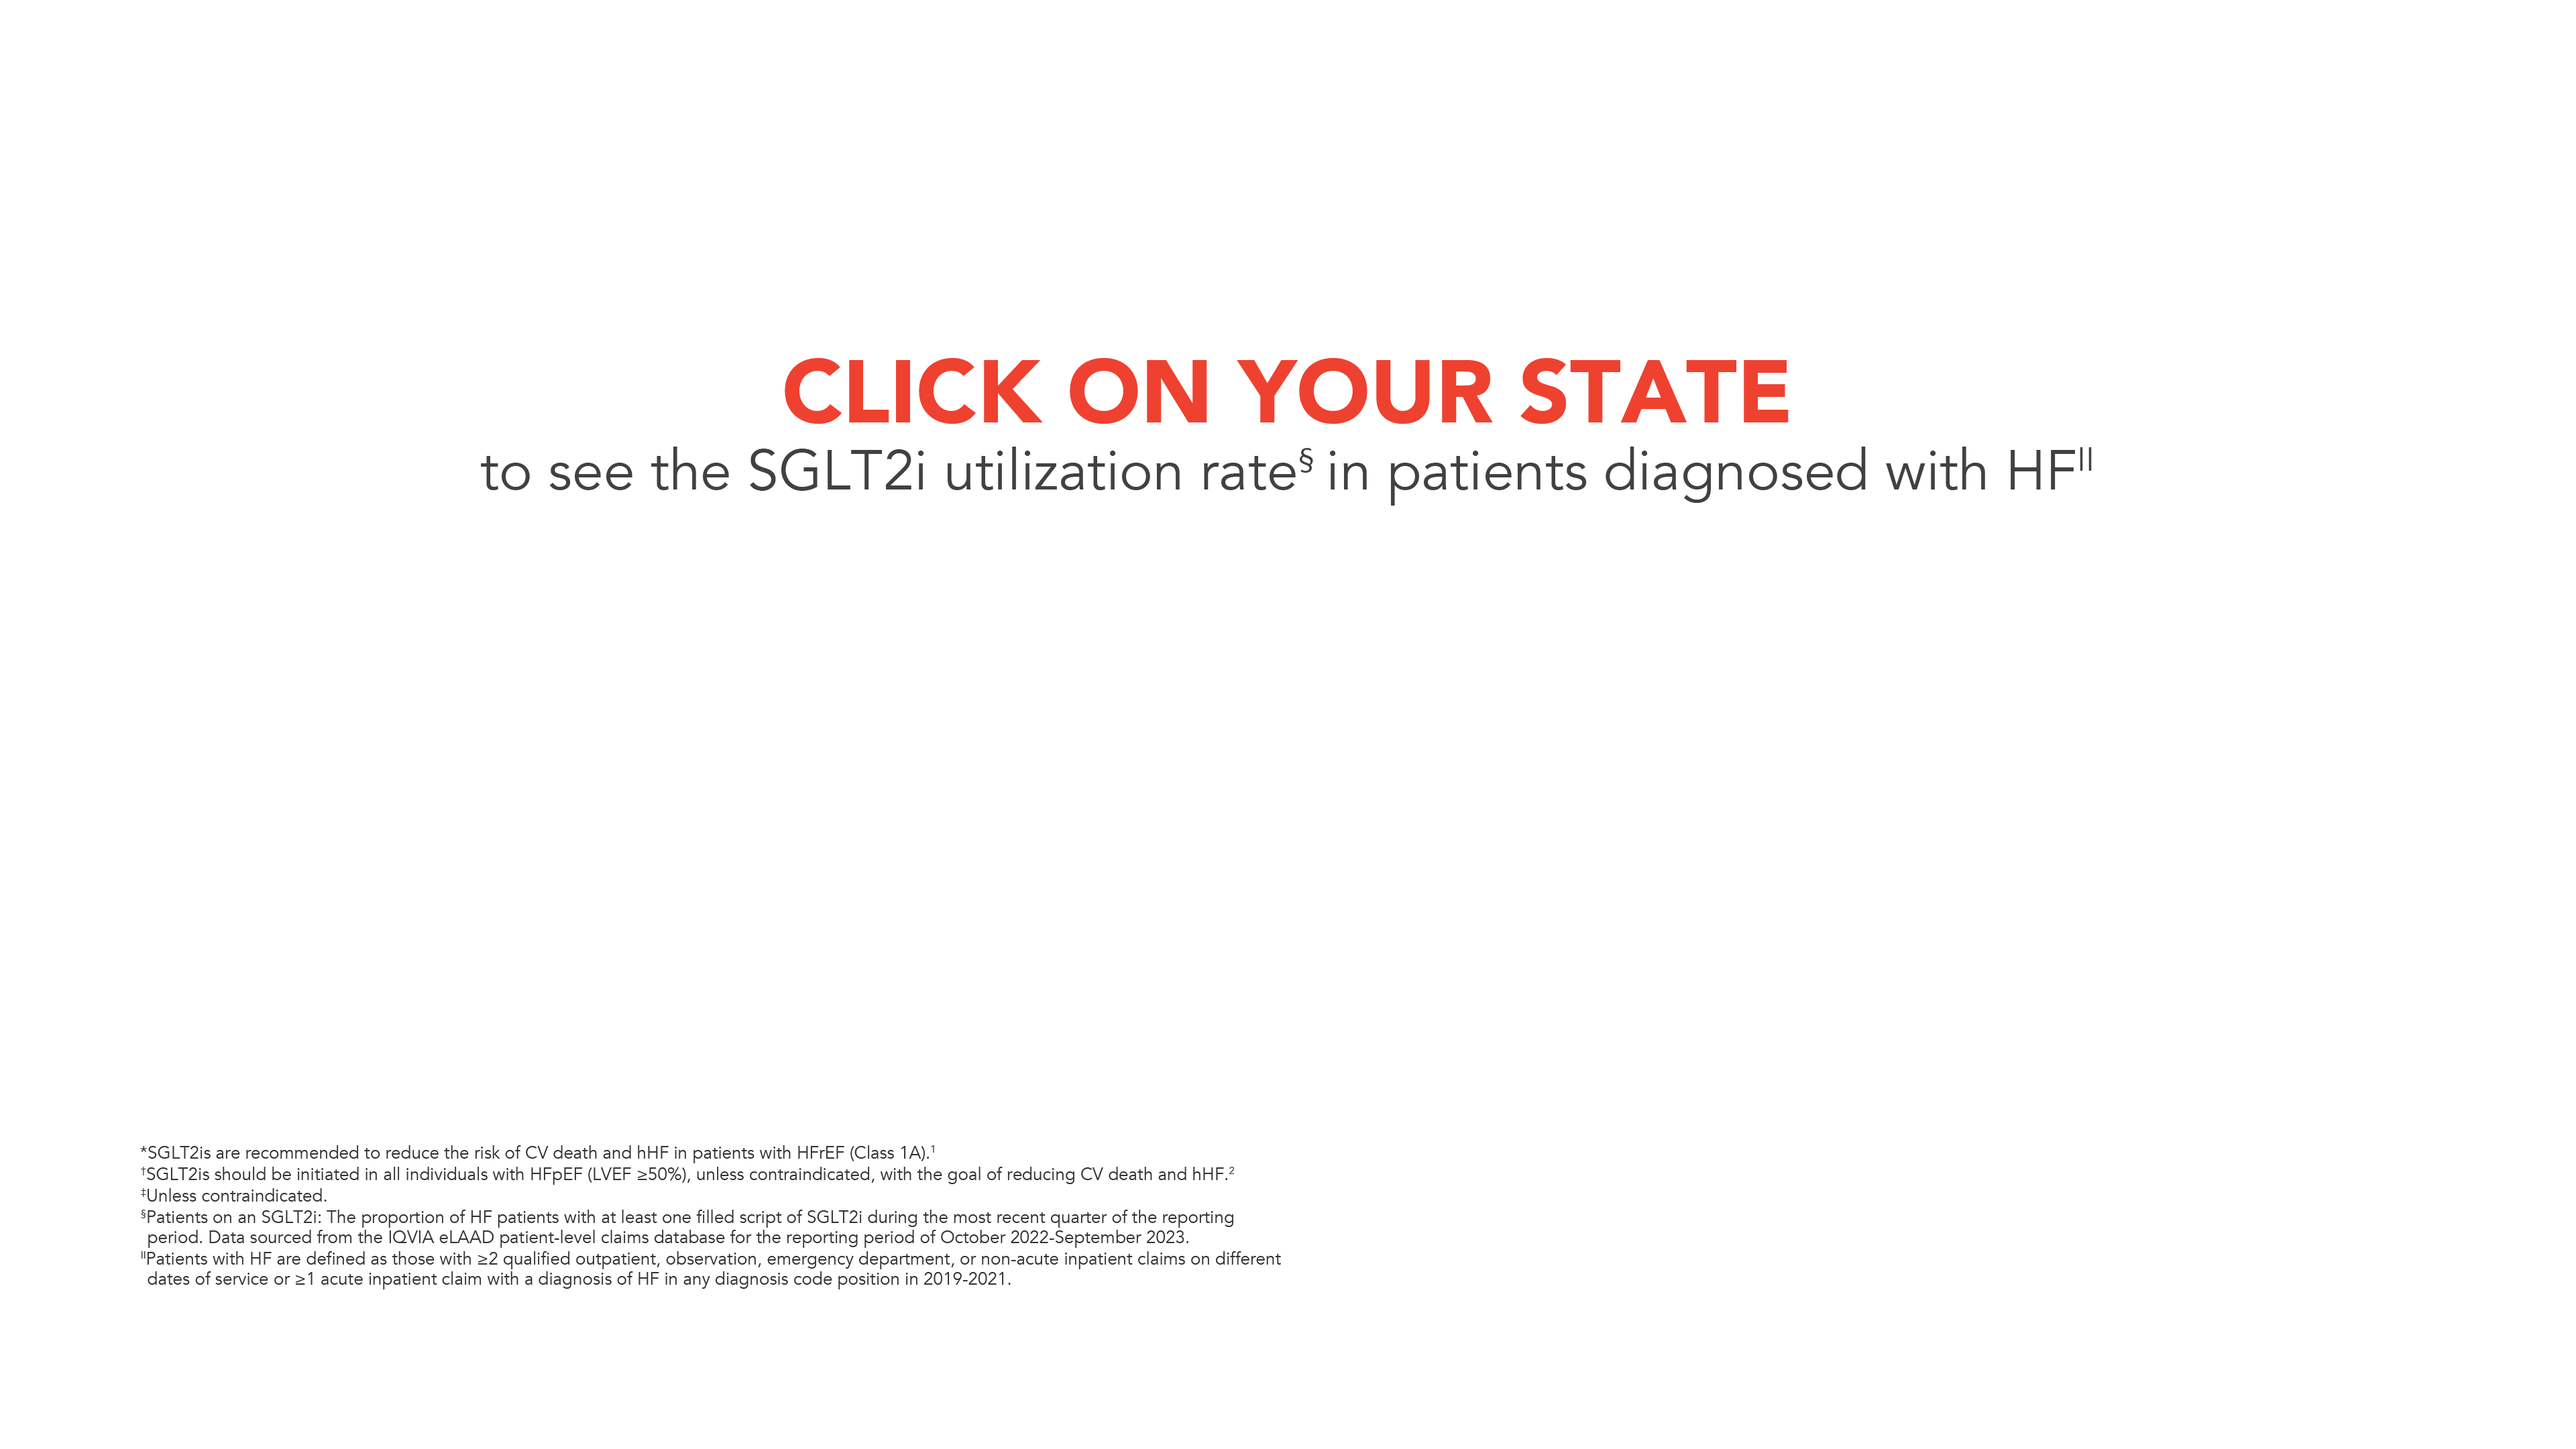
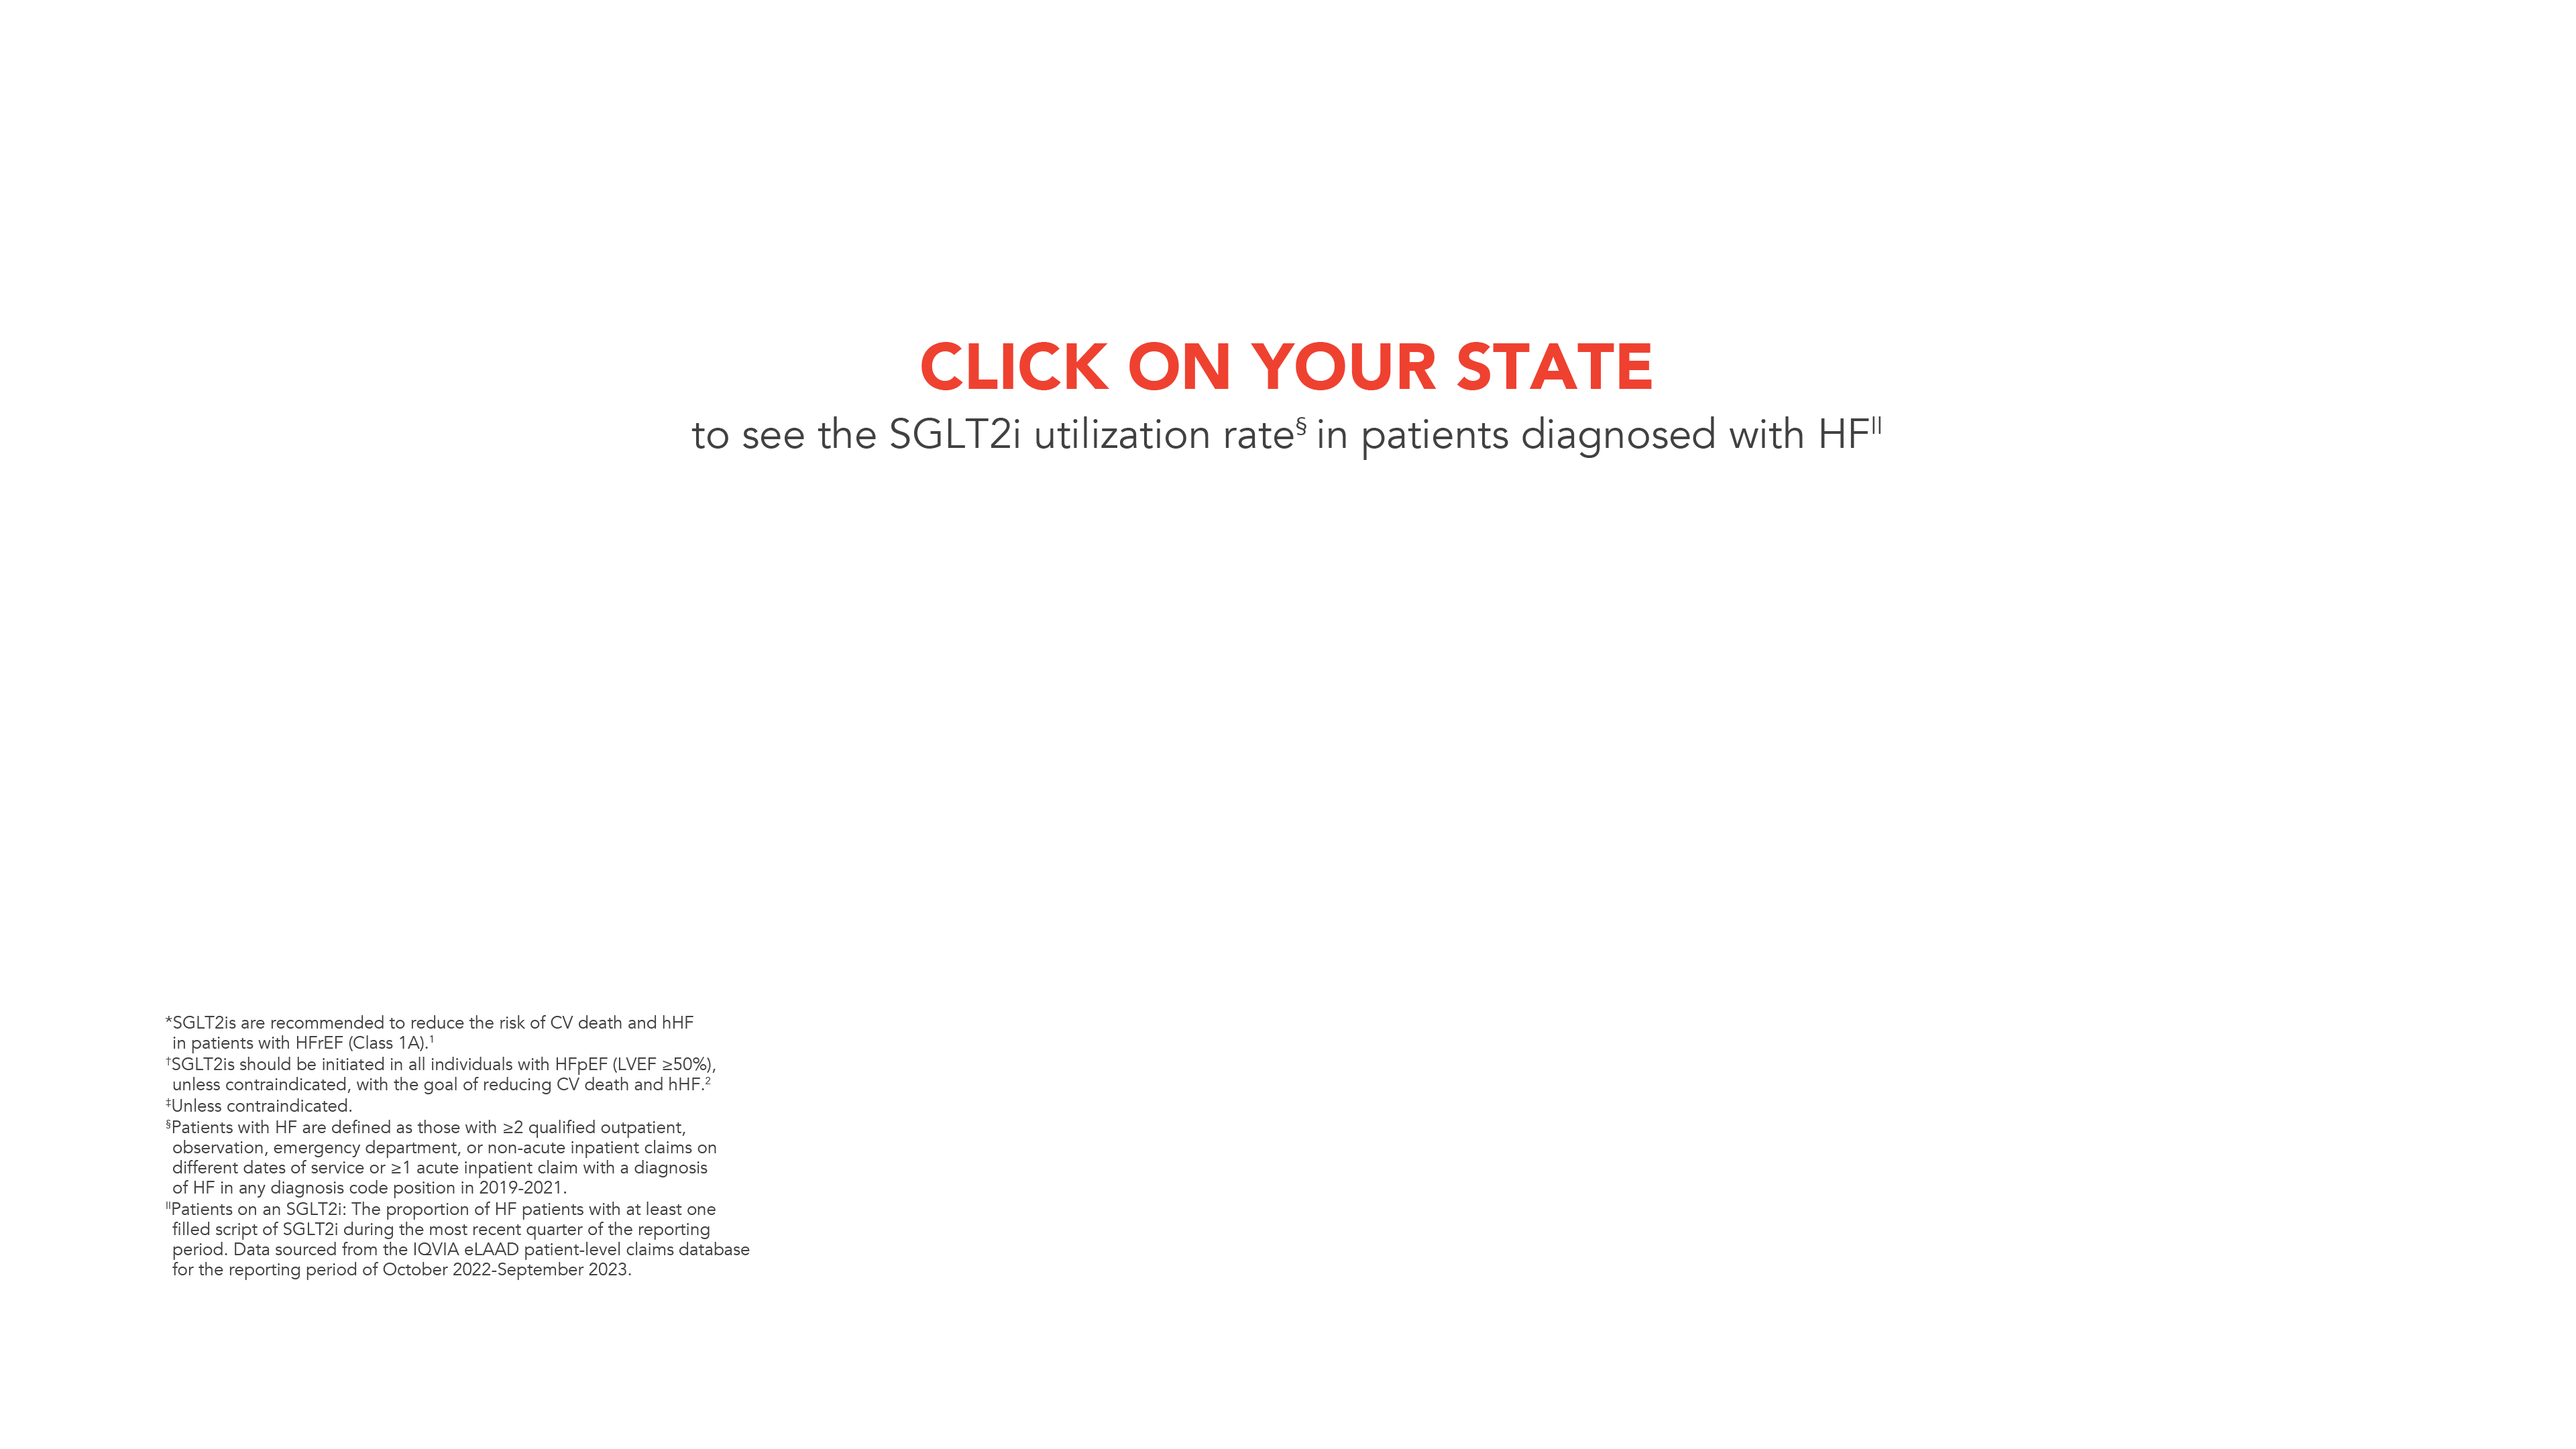
updates missing 1

Changed region(s): [[0.1875, 0.217, 0.8123, 0.341], [0.0625, 0.7131, 0.4686, 0.8991], [0.2187, 0.7131, 0.2499, 0.7441]]

diff --git a/public/index.html b/public/index.html
@@ -2310,6 +2310,68 @@
         z-index: unset;
         transition: visibility 0ms 3500ms, opacity 3500ms linear;
       }
+      img.select-state.left.visible {
+        visibility: visible!important;
+        opacity: 1!important;
+        z-index: unset;
+        transition: visibility 0ms 3500ms, opacity 3500ms linear;
+      }
+      img.select-state.right.visible {
+        visibility: visible!important;
+        opacity: 1!important;
+        z-index: unset;
+        transition-delay: 1s; /* 2 */
+        transition: delay 1s visibility 0ms 3500ms, opacity 3500ms linear!important;
+      }
+      .greentxt{
+        animation: fadein 5s linear; /* 8s*/
+      }
+      @keyframes fadein {
+        0%{
+          opacity: 0;
+        }
+        15%{
+          opacity: 0;
+        }
+        100%{
+          opacity: 1;
+        }
+      }
+
+      .pulse{
+        animation: 15s ease-out littlemap infinite;
+      }
+
+      @keyframes littlemap {
+        0% {
+        scale: 1;
+      }
+      5% {
+          scale: 0.9;
+      }
+      10% {
+          scale: 1;
+      }
+      15% {
+          scale: 0.9;
+      }
+      20% {
+          scale: 1;
+      }
+      25% {
+          scale: 0.9;
+      }
+      30% {
+          scale: 1.1;
+      }
+      33% {
+          scale: 1;
+      }
+      100% {
+          scale: 1;
+      }
+      }
+
       div#rates.visible{
         visibility: visible!important;
         opacity: 1!important;
@@ -2480,6 +2542,30 @@
         z-index: 999;
     }
 
+    img.home-footnote {
+      position: absolute;
+      width: 440px;
+      top: 510px;
+      left: -67px;
+  }
+  img.map-glow {
+    position: absolute;
+    width: 1357px;
+    left: -88px;
+    top: 0px;
+}
+img.map-glow-notes {
+    position: absolute;
+    width: 318px;
+    top: 207px;
+    left: 609px;
+}
+img.map-glow-button {
+    position: absolute;
+    width: 580px;
+    left: 479px;
+    top: 499px;
+}
     </style>
   </head>
   <body style="margin: 0; padding: 0">
@@ -2490,6 +2576,12 @@
       <div class="start-screen">
         <div class="start-content">
           <img class="home-static-content" src="./assets/home_screen.png" />
+
+
+          <img class="home-footnote" src="assets/attract-map-footnotes.png"/>
+          <img class="map-glow pulse" src="assets/map with glow.png"/>
+          <img class="map-glow-notes pulse" src="assets/copy.png"/>
+          <img class="map-glow-button pulse" onclick="activateMap()" src="assets/Attract Button.png"/>
           <!--
           <img class="map-header-image1" src="./assets/screen_title_1.png" />
         -->
@@ -2502,7 +2594,7 @@
         -->
         </div>
       </div>
-      <div class="map">
+      <div class="map hidden">
         <img class="map-header-image1" src="./assets/screen_title_1.png" />
         <div class="upper-text map-up">
 
@@ -14147,7 +14239,9 @@
           <use xlink:href="#New_York" ></use>
         </svg>
         <!-- SVG  END  -->
-        <img class="select-state" src="./assets/state_screen_1.png"/>
+        <img class="select-state left" src="./assets/State_gray_panel_in_position.png"/>
+        <img class="select-state right" src="./assets/State_green_panel_in_position.png"/>
+        <img class="select-state" src="./assets/StatePageFootnotesPositoinednew.png"/>
         <!-- not used - delete later 
           <div id="seeTheDiference" class="state-active-buttons hidden" onclick="seeTheDiference()"> 
             -->
@@ -14216,6 +14310,10 @@
         $("#step").removeClass("home-step");
         $("#step").addClass("map-step");
         $('.visible').removeClass('visible')
+        $('.map-glow').toggleClass('hidden')
+        $('.home-footnote').toggleClass('hidden')
+        $('.map-glow-notes').toggleClass('hidden')
+        $('.map-glow-button').toggleClass('hidden')
         //sendMess('Startbtn')
       };
       //// UNCOMMENT THE sendMess FUNCTIONS WHEN YOU MAKE THE ZIP FOR PROD, OTHERWISE IT WONT RECORD THE CLICKS
@@ -14330,7 +14428,7 @@
           $(".map-header .nofpatients").html(`${patientsn} patients diagnosed with HF<span>§</span>`).addClass('active');
           $(".only-line").html(
             `FOR THE ${100 - stateData.percent_of_patients_on_sglt2i}%<br>OF PATIENTS`
-          );
+          ).addClass('greentxt');
           //READMISSION AND MORTALITY
           countUp(stateData.percent_of_patients_on_sglt2i, '.read-rate')
           //countUp(stateData.percent_mortality, '.mort-rate')
@@ -14375,13 +14473,38 @@
                 .removeClass("detail");
             $('.select-state').removeClass('visible')
             $('.nofpatients').toggleClass('active')
+            $("#step").removeClass("detail-step-left")
+            $("#step").addClass("home-step")
+            $(".start-content").toggleClass('hidden')
+            $(".greentxt").removeClass("greentxt")
+
+          }
+          if ($("#step").hasClass("map-step")){
+            $('.start-content').toggleClass('hidden')
+            $(".map").toggleClass("hidden");
+            $("body").toggleClass("map-view");
+            $(".map-header h2").text('')
+            $(".map-header .nofpatients").html('')
+            $(".map-up #upper-title")
+                .text("DO YOU KNOW THE RISKS")
+                .removeClass("detail");
+            $(".map-up #upper-subtitle")
+                .text("patients with HF face in your state?")
+                .removeClass("detail");
+            $('.select-state').removeClass('visible')
+            $('.nofpatients').toggleClass('active')
             $('#rates').toggleClass('visible')
             $('#sqr-bb-content').toggleClass('visible')
             $("#step").removeClass("detail-step-left")
             $("#step").addClass("home-step")
+            $('.map-glow').toggleClass('hidden')
+            $('.home-footnote').toggleClass('hidden')
+            $('.map-glow-notes').toggleClass('hidden')
+            $('.map-glow-button').toggleClass('hidden')
+
           }
           // IF USER IS IN THE STATE SELECTION(MAP) SCREEN 
-          else{
+          else{f
 
           }
           $('step').trigger( "click" )
@@ -14389,14 +14512,14 @@
         }
       };
       // COUNTER FORM 0 TO N% 
-      let interval = 700;
+      let interval = 3000;
       const countUp = (val, target) =>{
         console.log(val, target)
-        let startVal = 100;
+        let startVal = 0;
         let endVal = val
         let duration = Math.floor( interval /endVal )
         let counter = setInterval(function(){
-          startVal -= 1;
+          startVal += 1;
           $(target).text(`${startVal}%`)
           if(startVal == endVal){
             clearInterval(counter)
